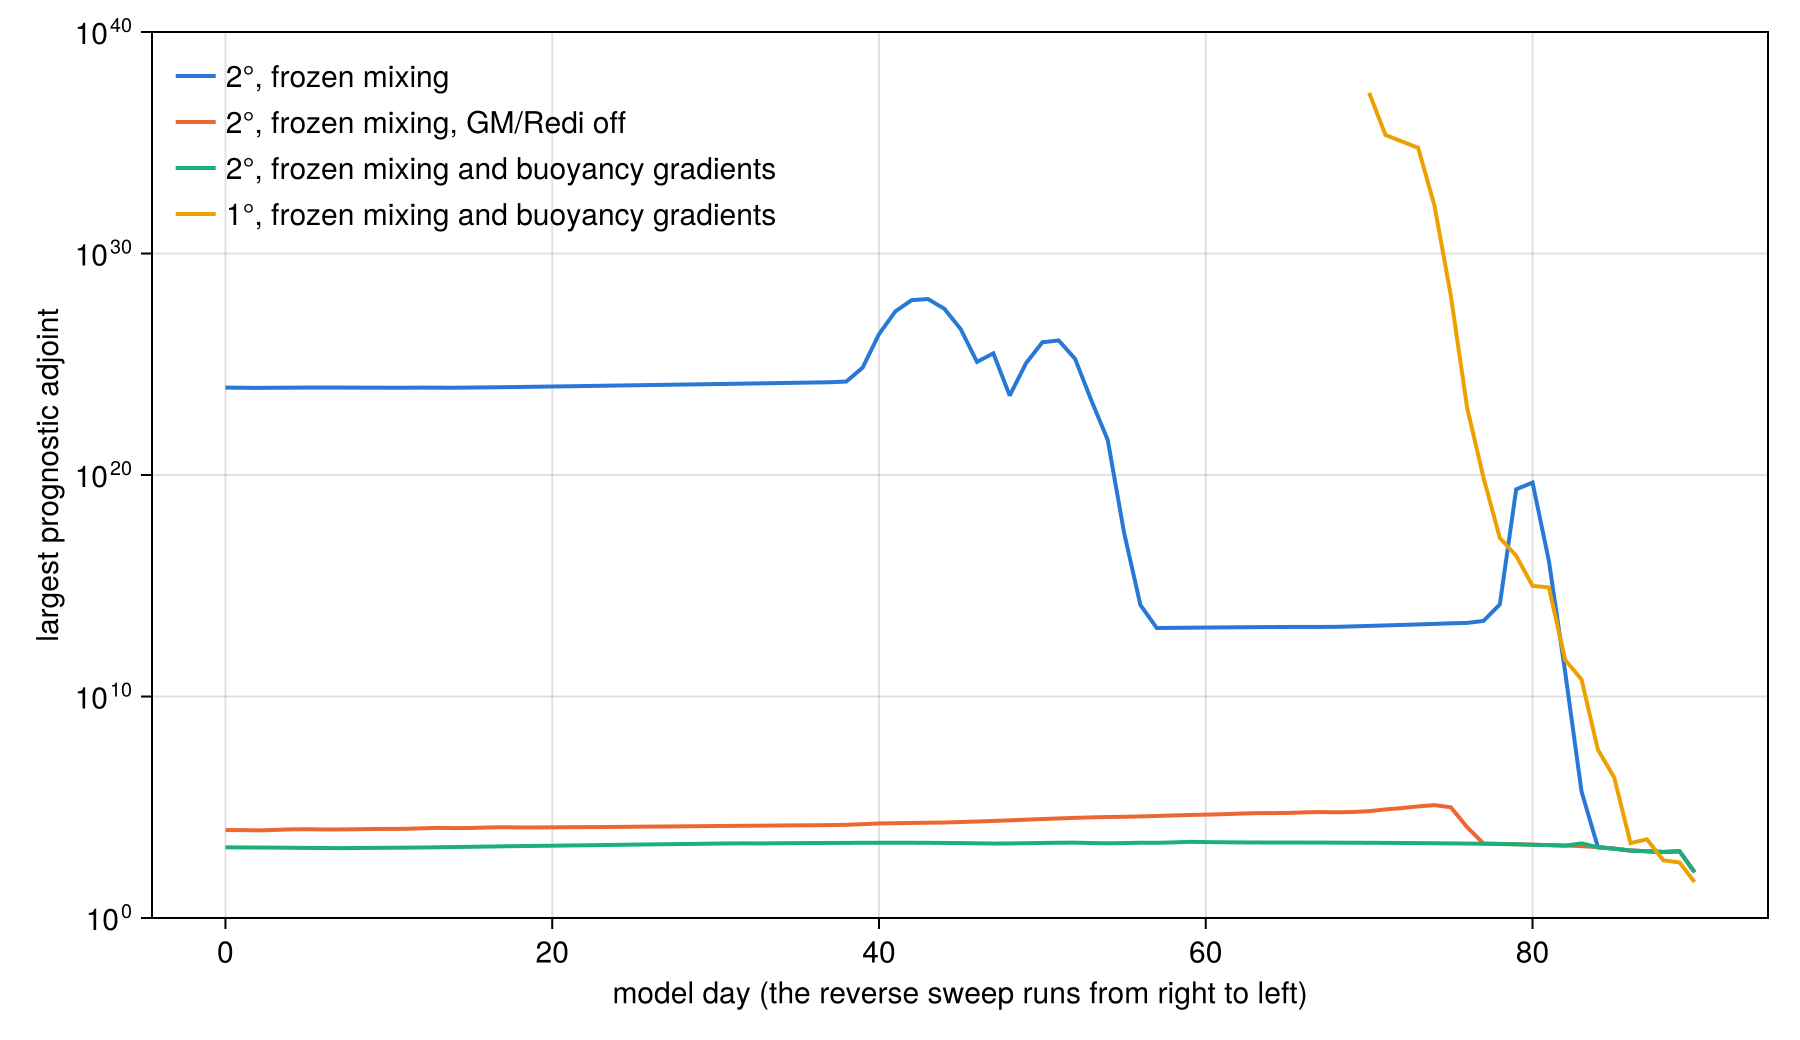
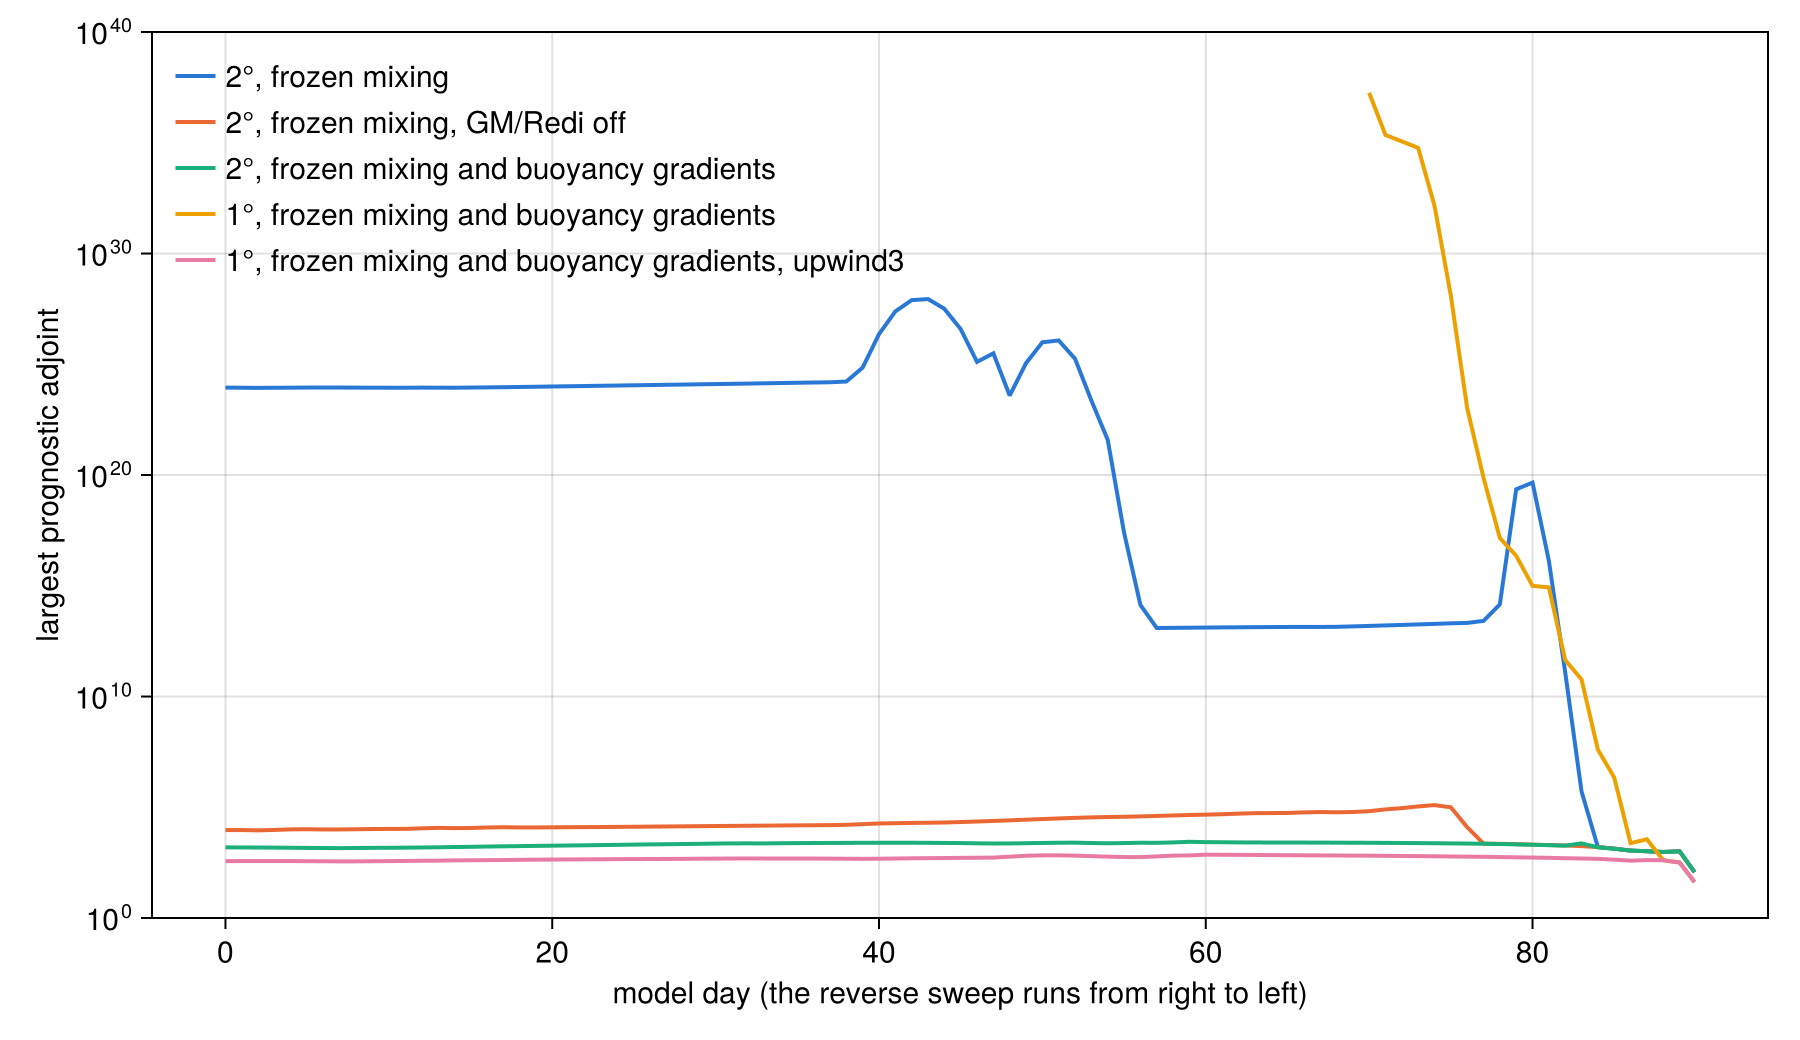
OMIP adjoint: 1° 90-day adjoint bounded with upwind3 advection (1161433)
Claude-Session: https://claude.ai/code/session_018YE9V2kD2NyZSaKi3mZFoe

diff --git a/experiments/OMIPSimulations/adjoint/papers/differentiable_ocean_manuscript.tex b/experiments/OMIPSimulations/adjoint/papers/differentiable_ocean_manuscript.tex
@@ -35,8 +35,8 @@
         and Enzyme, and verified.
   \item Compile time does not depend on the window: one step and its reverse pass are compiled once and driven by
         binomial checkpointing.
-  \item The adjoint explodes through the derivative of the isopycnal slopes; fixing the buoyancy gradients in
-        derivatives bounds it at 2 degrees, not at 1.
+  \item The adjoint explodes through the derivative of the isopycnal slopes and, at 1 degree, of the WENO
+        weights; fixing the buoyancy gradients in derivatives, and linear advection at 1 degree, bound it.
 \end{itemize}
 
 \begin{abstract}
@@ -53,9 +53,10 @@ e-fold per 17 hours and reaches \num{e23}, while twin forward experiments separa
 perturbation 16 times. The amplification comes from the derivative of the isopycnal slopes in the mesoscale
 closure, which scales with the inverse of the stratification. Holding the buoyancy gradients constant in
 derivatives, with the forward model unchanged, reduces the one-step growth to 1.00 and bounds the 90-day adjoint
-at \ang{2}. We show the resulting sensitivities of the overturning at \ang{26.5}N to wind stress, heat flux and
-freshwater flux by lead time, and report what still fails: the one-year window at \ang{2} and the 90-day window at
-\ang{1} have further instabilities that this remedy does not remove.
+at \ang{2}. At \ang{1} a second instability appears, in the derivative of the WENO advection weights; with
+linear upwind advection the \ang{1} 90-day adjoint is bounded as well. We show the resulting sensitivities of the
+overturning at \ang{26.5}N to wind stress, heat flux and freshwater flux by lead time, and report what still
+fails: the one-year window at \ang{2} has a further instability that these remedies do not remove.
 \end{abstract}
 
 \section*{Plain Language Summary}
@@ -66,8 +67,8 @@ modern ocean model that runs on graphics cards. We check that the result is corr
 also find that over a few months the adjoint blows up even though the ocean model itself is well behaved. The cause
 is one formula, the slope of density surfaces, which is very sensitive where the ocean is weakly layered in winter.
 Treating that slope as fixed when taking derivatives removes the blow-up for three-month calculations on a coarse
-grid. A one-year calculation, and a three-month calculation on a finer grid, still fail for reasons we have not
-yet found.
+grid. On a finer grid a second formula, the weights of the advection scheme, has the same effect, and a simpler
+advection scheme removes it. A one-year calculation still fails for reasons we have not yet found.
 
 \section{Introduction}
 
@@ -357,7 +358,7 @@ advection scheme is not the cause (Figure~\ref{fig:trace}).
 \includegraphics[width=0.8\textwidth]{figures/adjoint_trace_ecco4_nz20_oc117.png}
 \caption{Largest adjoint of the prognostic fields (velocities, temperature, salinity and free surface) at each
 model day of the reverse sweep of the 90-day window, which runs from day 90 to day 0. A curve ends where the adjoint
-overflows.}
+overflows. All runs use WENO advection except the last, which uses linear third-order upwind advection.}
 \label{fig:trace}
 \end{figure}
 
@@ -452,9 +453,16 @@ over the domain (the largest $3\times3\times3$ box holds under \SI{1}{\percent} 
 depend on the advected field, and their derivative enters the linearized step; a linear scheme has none. The
 growth is not an effect of the step length: at $\Delta t = \SI{1}{h}$ with WENO it is 2.9 and 4.7 per step, that
 is 8.5 and 22 per \SI{2}{h}. Each variant follows its own forward trajectory, so these compare model days and not
-states. \pending{A 90-day reverse sweep at \ang{1} with linear upwind advection and frozen buoyancy gradients, to
-test whether the adjoint is then bounded; and why WENO's weights are benign at \ang{2}, where the sweep with frozen
-buoyancy gradients is bounded.}
+states.
+
+With linear upwind advection the \ang{1} 90-day adjoint is bounded (Figure~\ref{fig:trace}). With frozen mixing and
+frozen buoyancy gradients its largest prognostic value stays between \num{4e1} and \num{7.2e2} over the whole
+sweep, led by the adjoint of salinity in the subtropical North Atlantic near the objective's section (\ang{17}W to
+\ang{78}W, \ang{11}N to \ang{35}N), and the largest sensitivity to wind stress is \SI{1.2}{Sv} per \si{N.m^{-2}}.
+The forward model changes with the scheme: $J$ is \SI{14.51}{Sv} with upwind advection and \SI{16.36}{Sv} with WENO.
+\pending{Why WENO's weights are benign at \ang{2}, where the sweep with WENO and frozen buoyancy gradients is
+bounded; and whether the weights can be held constant in derivatives, as the buoyancy gradients are, so that the
+forward model keeps WENO.}
 
 \subsection{One year}
 
@@ -492,7 +500,9 @@ only, the cosine per monthly field is 0.98 to 0.999 and the maxima agree to \SI{
 freshwater flux sensitivities are less robust (cosine 0.76 to 0.90) and show a checkerboard at the grid scale. We
 do not interpret them.
 
-We have no sensitivities at \ang{1}, because the adjoint is not bounded there (Section~\ref{sec:stability}).
+We do not yet show sensitivities at \ang{1}: the bounded \ang{1} adjoint uses upwind advection, whose forward
+state differs from the WENO configuration of this section. \pending{\ang{1} sensitivities with upwind advection,
+or with WENO and frozen weights.}
 
 \section{Limitations and outlook}
 \label{sec:limits}
@@ -502,9 +512,10 @@ We have no sensitivities at \ang{1}, because the adjoint is not bounded there (S
         vertical mixing and in isopycnal slopes. For frozen mixing we measured the cost in accuracy
         (Section~\ref{sec:verification}); with frozen buoyancy gradients the 90-day gradient matches secants
         along its own direction to under \SI{1}{\percent}, which does not test other directions.
-  \item \emph{One year, and \ang{1}, are out of reach.} Further instabilities remain
-        (Section~\ref{sec:stability}), and the bounded \ang{2} result may not survive a change of resolution,
-        season or model version.
+  \item \emph{One year is out of reach, and \ang{1} needs a different advection scheme.} A further instability
+        remains in the one-year window (Section~\ref{sec:stability}). At \ang{1} the adjoint is bounded only with
+        linear upwind advection, which changes the forward model. Each bounded result may not survive a change of
+        resolution, season or model version.
   \item \emph{The initial states are not in equilibrium.} The windows start from rest or from the ECCO state
         interpolated to a different grid, and the model adjusts during the window.
   \item \emph{The configuration is simplified}: no sea ice, no surface restoring, fixed levels, explicit vertical

diff --git a/LOGBOOK.md b/LOGBOOK.md
@@ -272,6 +272,13 @@ Reference numbers (LS6 A100, Nz = 20):
    time-step effect. Each variant has its own forward trajectory. Not yet run: the 1° 90-day sweep with
    upwind3 and frozen gradients. At 2° upwind3 alone did not bound the sweep (1154000), but that run
    differentiated the slopes.
+19. **At 1° the 90-day adjoint is bounded with upwind3 advection (11-22).** 1161433: 1158947's window (Δt = 2 h,
+   100 substeps, frozen mixing and buoyancy gradients, traced daily) with linear third-order upwind advection.
+   J 14.5108 Sv (16.3630 with WENO), max|∂J/∂τx| 1.198, compile 12.8 min, gradient 437 s. Prognostic adjoint
+   4.2e1 at day 90, then 3e2–7.2e2 over the whole sweep (peak 7.23e2 on day 60), led by S in the subtropical
+   North Atlantic (343°E 26°N level 8–9; 282–287°E 26–35°N near the surface; 341°E 11°N). Only u, v and S at the
+   fold row (j = 181) are NaN, as in every run. So at 1° WENO's weights are the remaining linearization
+   instability; why they are benign at 2° is open.
 ## Tooling added
 
 | File | Purpose |
@@ -372,6 +379,7 @@ Reference numbers (LS6 A100, Nz = 20):
 | Vista 1160770, 1160771 | 1° `step_jacobian` at 1002 / 1026, frozen mixing and gradients | 23.7 and 19.2 per step, momentum-led; finding 17 |
 | Vista 1161247 | 1° `step_jacobian` at 1002, 1026, frozen mixing and gradients, upwind3 | 0.99 per step at both, diffuse mode; finding 18 |
 | Vista 1161248 | 1° `step_jacobian` at 2004, 2052, frozen mixing and gradients, Δt = 1 h | 2.91 and 4.66 per step; finding 18 |
+| Vista 1161433 | 1° 90 days traced, frozen mixing and gradients, upwind3 | bounded: adjoint ≤ 7.2e2, max\|g\| 1.198, J 14.5108 Sv; finding 19 |
 
 ## Open
 
@@ -381,7 +389,8 @@ Reference numbers (LS6 A100, Nz = 20):
   `src/frozen_mixing.jl`); with `materialize_gradients = true` CATKE otherwise reads lagged N².
 - 1°: the 90-day adjoint explodes with frozen mixing and gradients (finding 15); the one-step Jacobian is
   unstable in momentum with or without GM/Redi (finding 17) and neutral with upwind3 advection (finding 18).
-  Next: the 1° 90-day traced gradient with upwind3 and frozen gradients.
+  The 1° 90-day adjoint with upwind3 and frozen gradients is bounded (finding 19). Open: why WENO is benign at
+  2°; holding WENO's weights constant in derivatives.
 - JAMES manuscript draft `adjoint/papers/differentiable_ocean_manuscript.tex`: placeholders in red.
 - Julia 1.13 compile stall with 0.2.309: rerun with the SIGUSR1 profile for an upstream report.
 - Upstream reports still open: Enzyme-JAX #3965 (batch fission); Oceananigans #6529, #6530, PR #6531 (posted
@@ -833,3 +842,4 @@ not attributed yet. Container: `$WORK/containers/julia_1.12_ls6.sif` links to a 
   (finding 17). The stage ran out of GPU memory at 1° until the stepping loop collected garbage (`be2f14a4`).
 - 1° `step_jacobian` with upwind3: 0.99 per step; at Δt = 1 h with WENO: 2.9 and 4.7 per step (finding 18).
   WENO's weights carry the 1° one-step growth.
+- 1° 90-day traced gradient with upwind3 (1161433): bounded, ≤ 7.2e2, max|g| 1.2, J 14.51 Sv (finding 19).

diff --git a/STATUS.md b/STATUS.md
@@ -17,7 +17,7 @@ through `/work/09603/ajseth/vista/.julia/dev/NumericalEarth-oc117`. Reactant 0.2
 | Long windows on 0.117.2 | **adjoint explodes** (see below), forward model healthy; bounded with GM/Redi off (1155069) and with frozen buoyancy gradients (1157589); 1 year with frozen gradients finite but bursts to 2.7e11 (1157526) |
 | Adjoint-only damping (`AdjointDamping`, `939d9986`) | implemented and verified (dot product 2.6e-15 LS6, 3.9e-14 Vista; zero damping reproduces the 8-step gradient to 2e-12); does **not** contain the growth |
 | Reactant 0.2.309 (git `2bb32e28`, Reactant_jll 0.0.445) | **on `oc117` since 11-19** (`8cfba671`): 2-step Taylor verified (1153869); 8-step gradient matches 3577970 to 1.7e-12 (stress) and 5e-10 (fluxes), compile 21.6 min, **first call 27 s instead of 14 min** (1153870); under Julia 1.13 the first compile stalls > 3 h 49 min (1147598) |
-| 1° (360 × 180) | forward model NaN by day 1 at Δt = 2 h, 50 substeps (3591885, 1158106); finite for 90 days with 100 substeps (1158107) or Δt = 1 h (1158108); 90-day adjoint NaN even with frozen mixing and buoyancy gradients (1158947); one-step Jacobian 19–24 per step with frozen gradients, 6.5–10 with GM/Redi off, in momentum (1160770/1, 1160555), 0.99 with upwind3 advection (1161247) |
+| 1° (360 × 180) | forward model NaN by day 1 at Δt = 2 h, 50 substeps (3591885, 1158106); finite for 90 days with 100 substeps (1158107) or Δt = 1 h (1158108); 90-day adjoint NaN even with frozen mixing and buoyancy gradients (1158947); one-step Jacobian 19–24 per step with frozen gradients, 6.5–10 with GM/Redi off, in momentum (1160770/1, 1160555), 0.99 with upwind3 advection (1161247); **90-day adjoint bounded with upwind3** and frozen gradients: ≤ 7.2e2, max\|g\| 1.2, J 14.51 Sv (1161433) |
 
 ## The long-window adjoint growth
 
@@ -82,8 +82,9 @@ before the end of the window, near coasts and fronts. What is known:
    0.2–0.6 % (1159299, finding 16). The 1° one-step Jacobian grows 19–24 per step with frozen gradients
    (1160770, 1160771) and 6.5–10 with GM/Redi off (1160555), in momentum: not the 2° mechanism (finding 17).
    With upwind3 advection it is 0.99 per step (1161247); at Δt = 1 h with WENO 2.9 and 4.7 (1161248): WENO's
-   weights carry the 1° growth (finding 18). Next (proposed): the 1° 90-day traced gradient with upwind3 and
-   frozen gradients. JAMES manuscript draft in `adjoint/papers/`.
+   weights carry the 1° growth (finding 18). The 1° 90-day adjoint with upwind3 and frozen gradients is bounded
+   (1161433, finding 19). Open: why WENO is benign at 2°; frozen WENO weights. JAMES manuscript draft in
+   `adjoint/papers/`.
 5. Optional: Julia 1.13 + 0.2.309 rerun with the SIGUSR1 profile, for an upstream report.
 
 ## Constraints to remember
